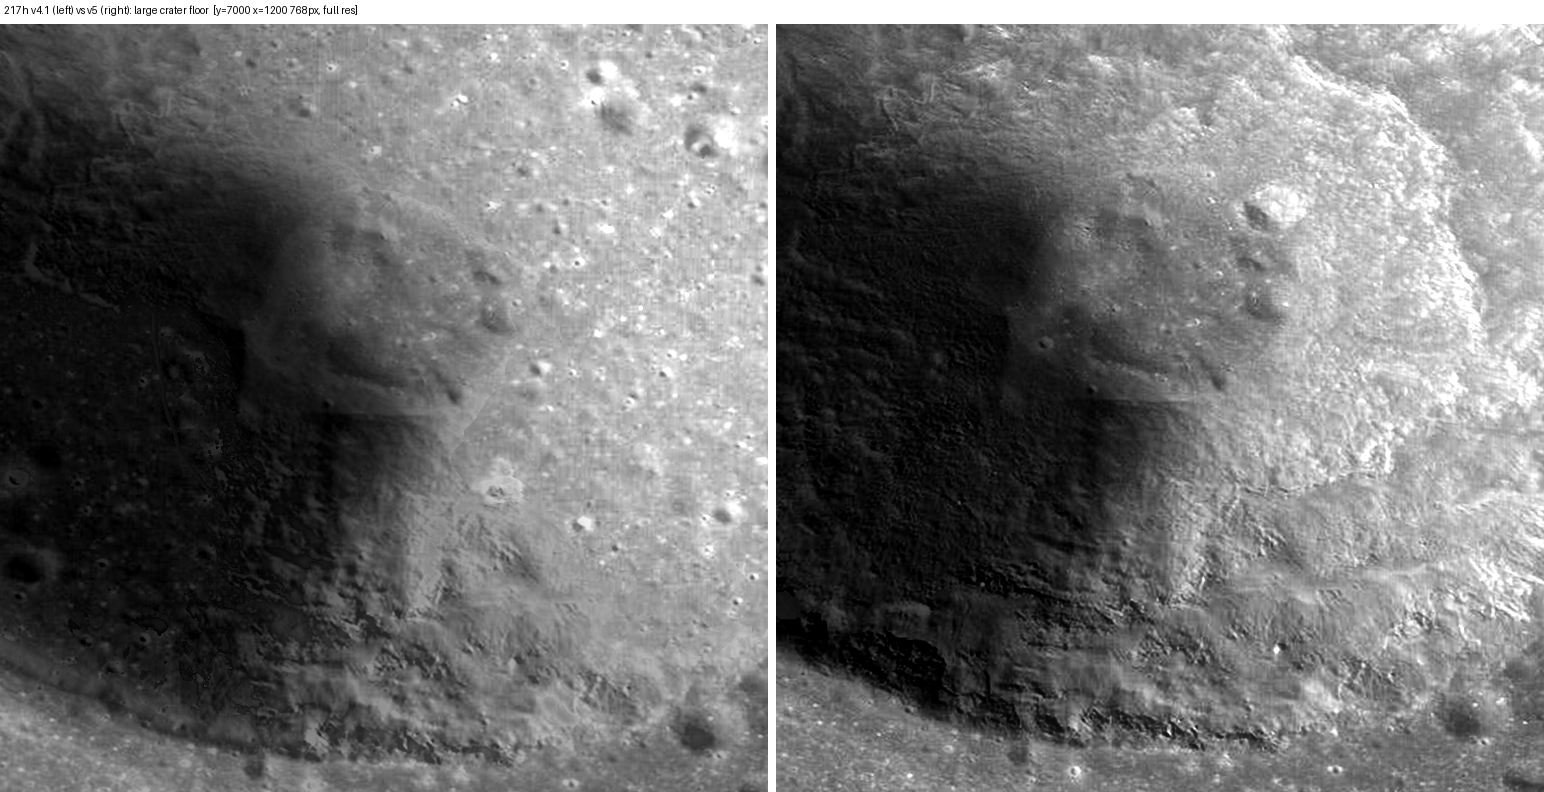
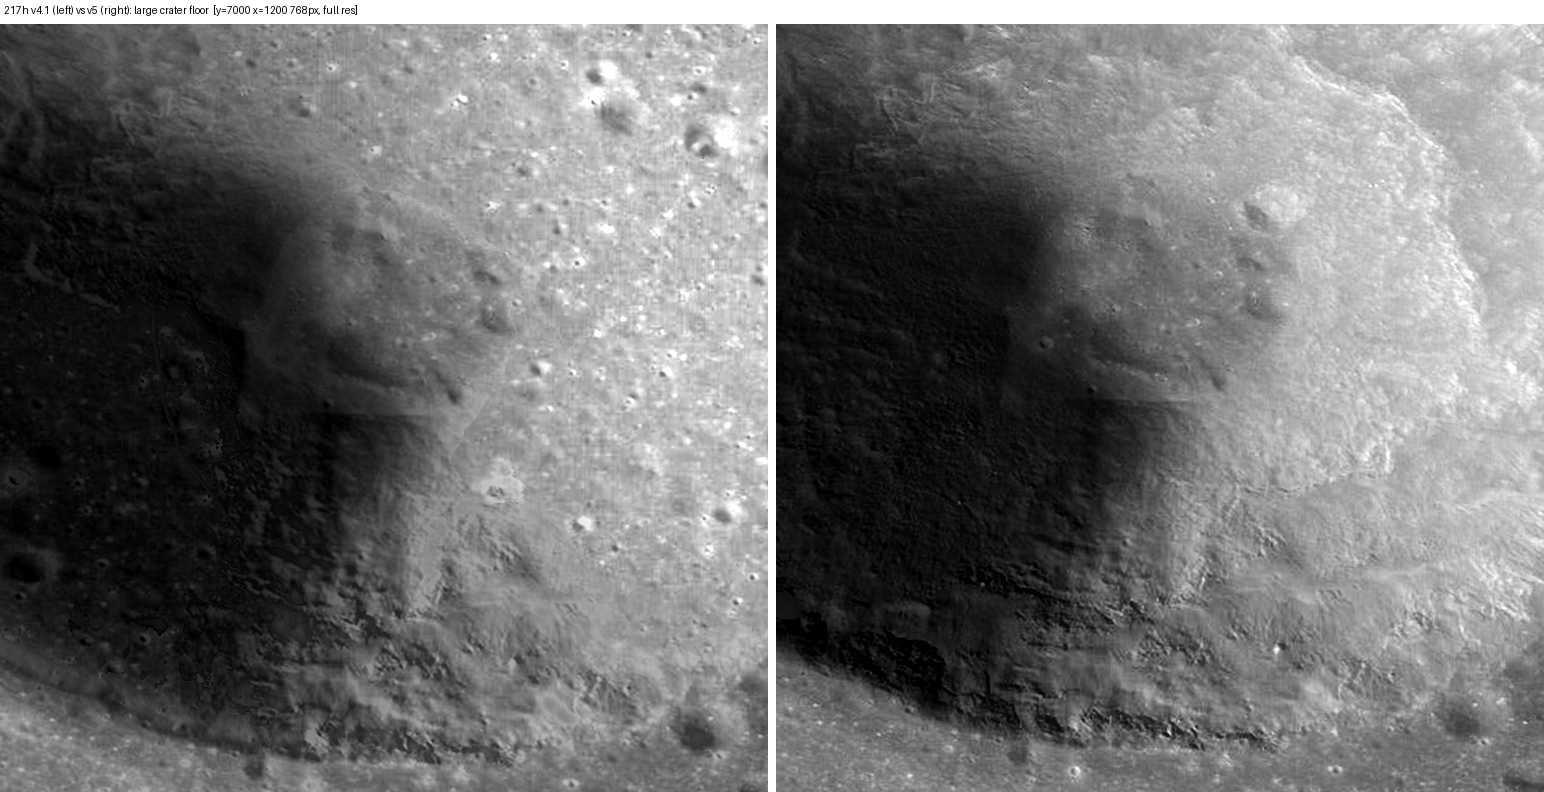
Refresh samples with current v5; add large-crater and seam comparisons
All samples regenerated from the committed v5 (calmer large craters):
quarter-res previews, problem-area crops, seam crops and new large-crater
overviews for 217h and 407g. 407a confirmation run: 0.45% of pixels
changed by repair stages (v4.1: 5.4%).

Claude-Session: https://claude.ai/code/session_01WPb35kRjus4hG34b6B4wts

diff --git a/pipeline/CHANGES_v5.md b/pipeline/CHANGES_v5.md
@@ -74,7 +74,7 @@ Set `LUNAR_DEBUG_DIR` to keep intermediate masks.
 | tile | v4.1 | v5 |
 |------|------|----|
 | 217h | 5.3% | 0.01% |
-| 407a | 5.4% | 0.46% |
+| 407a | 5.4% | 0.45% |
 | 407g | 9.7% | 1.6% |
 
 ## Known open items
